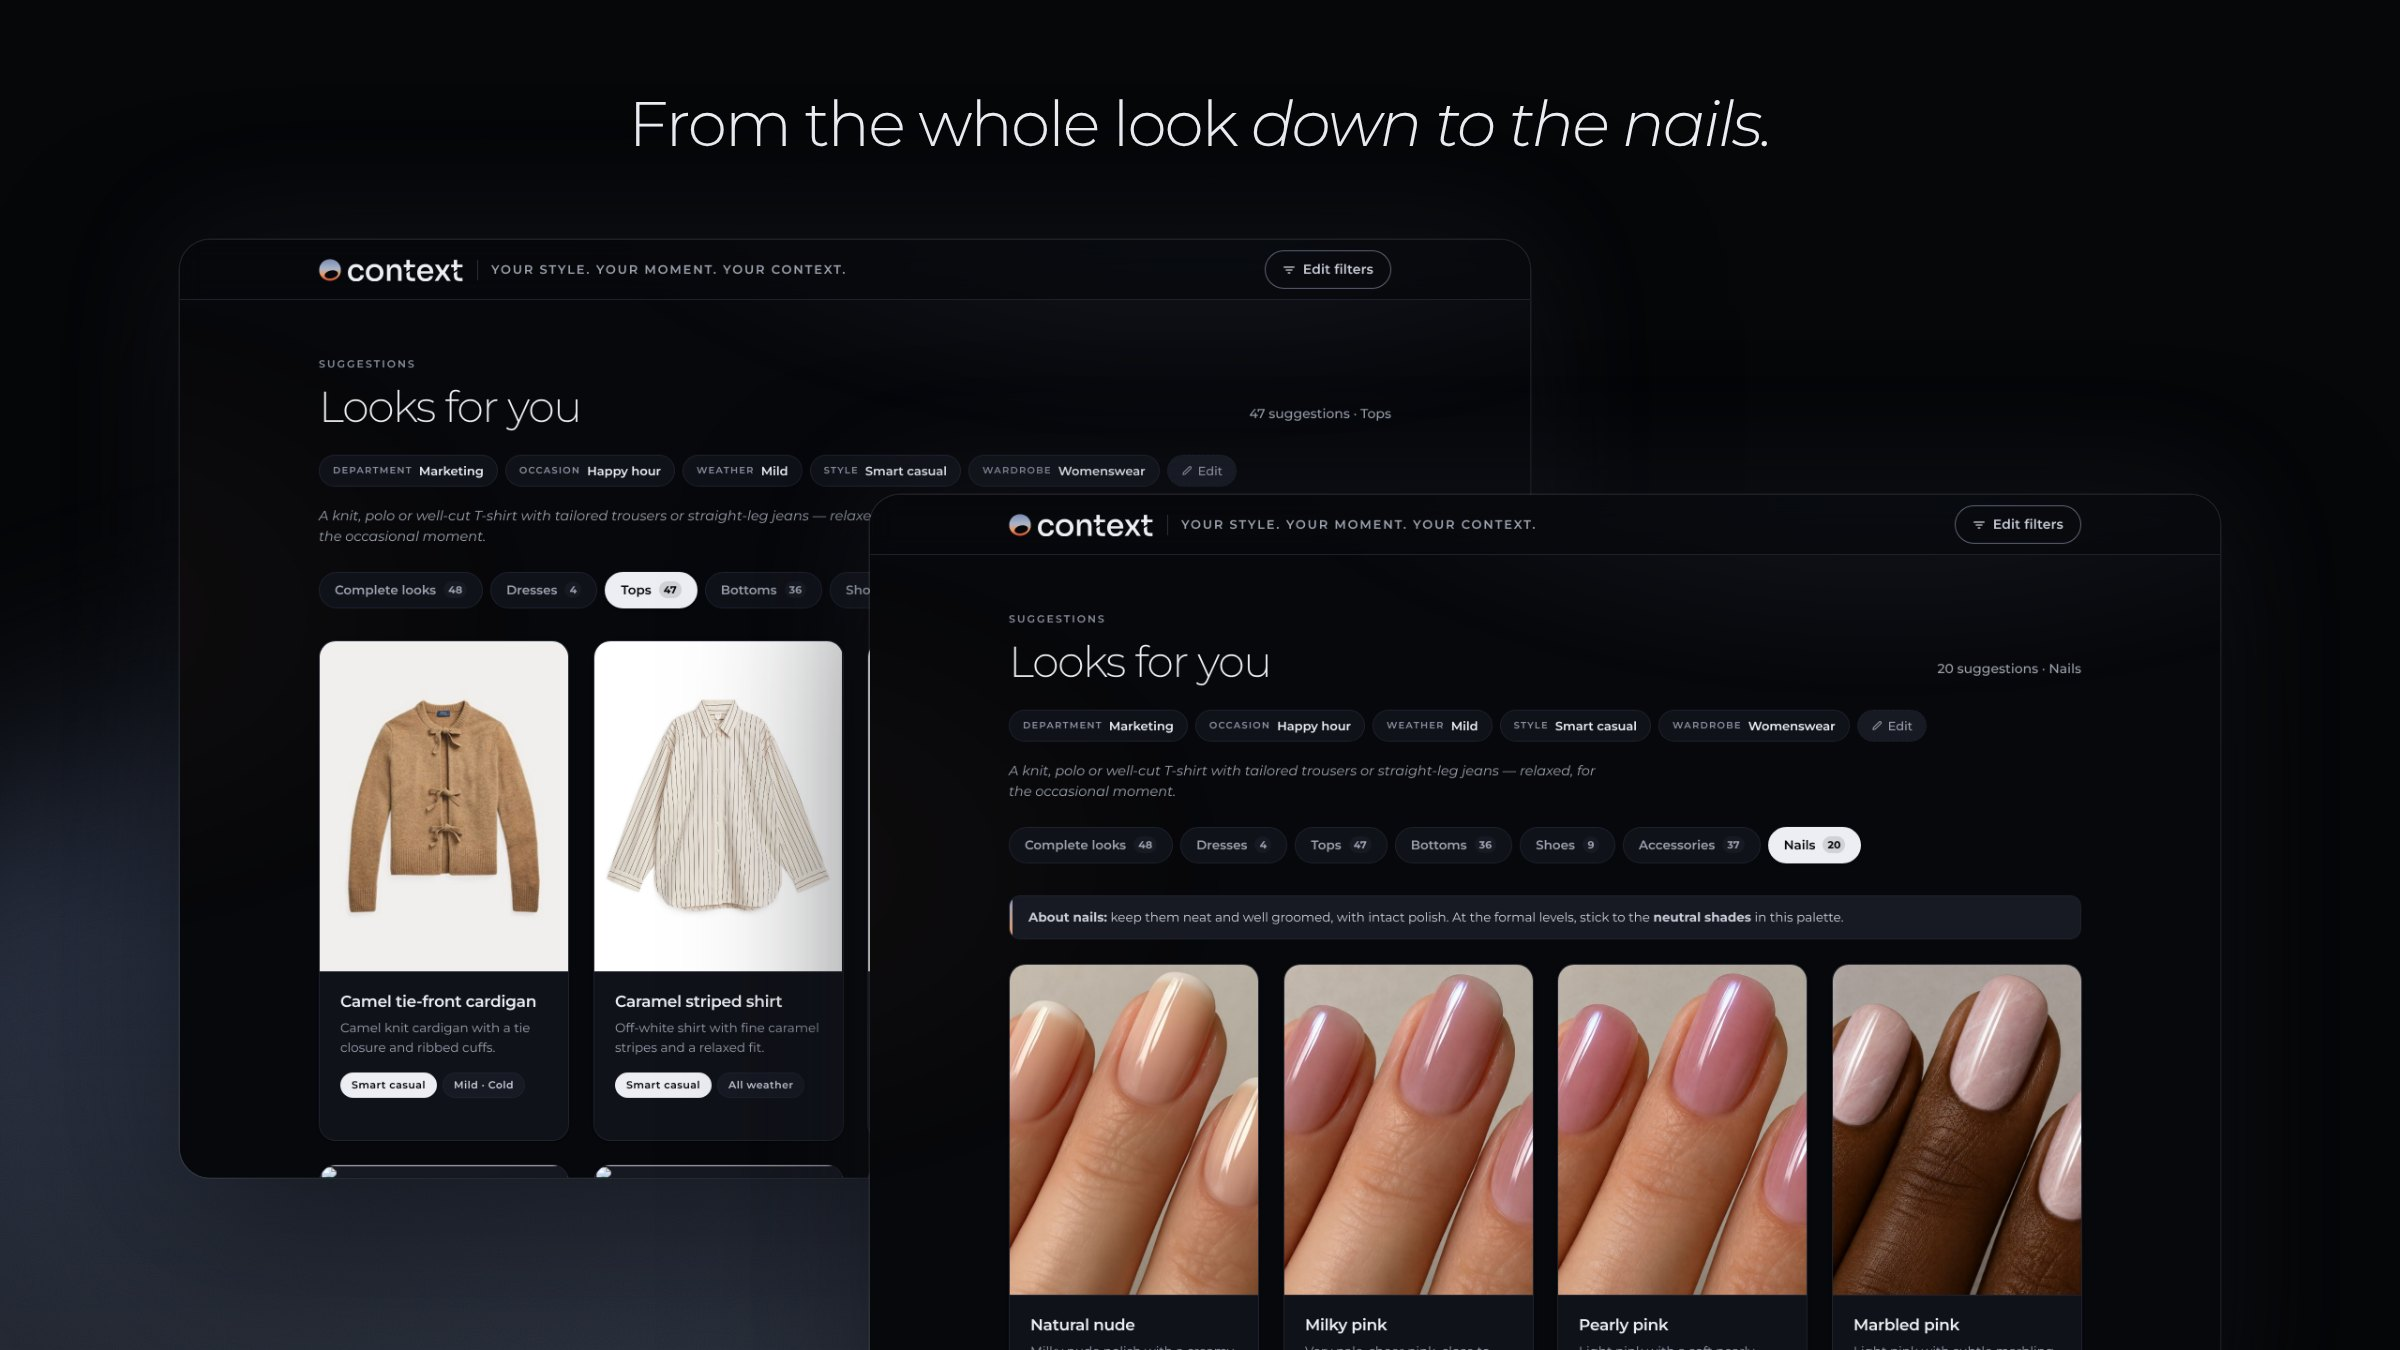
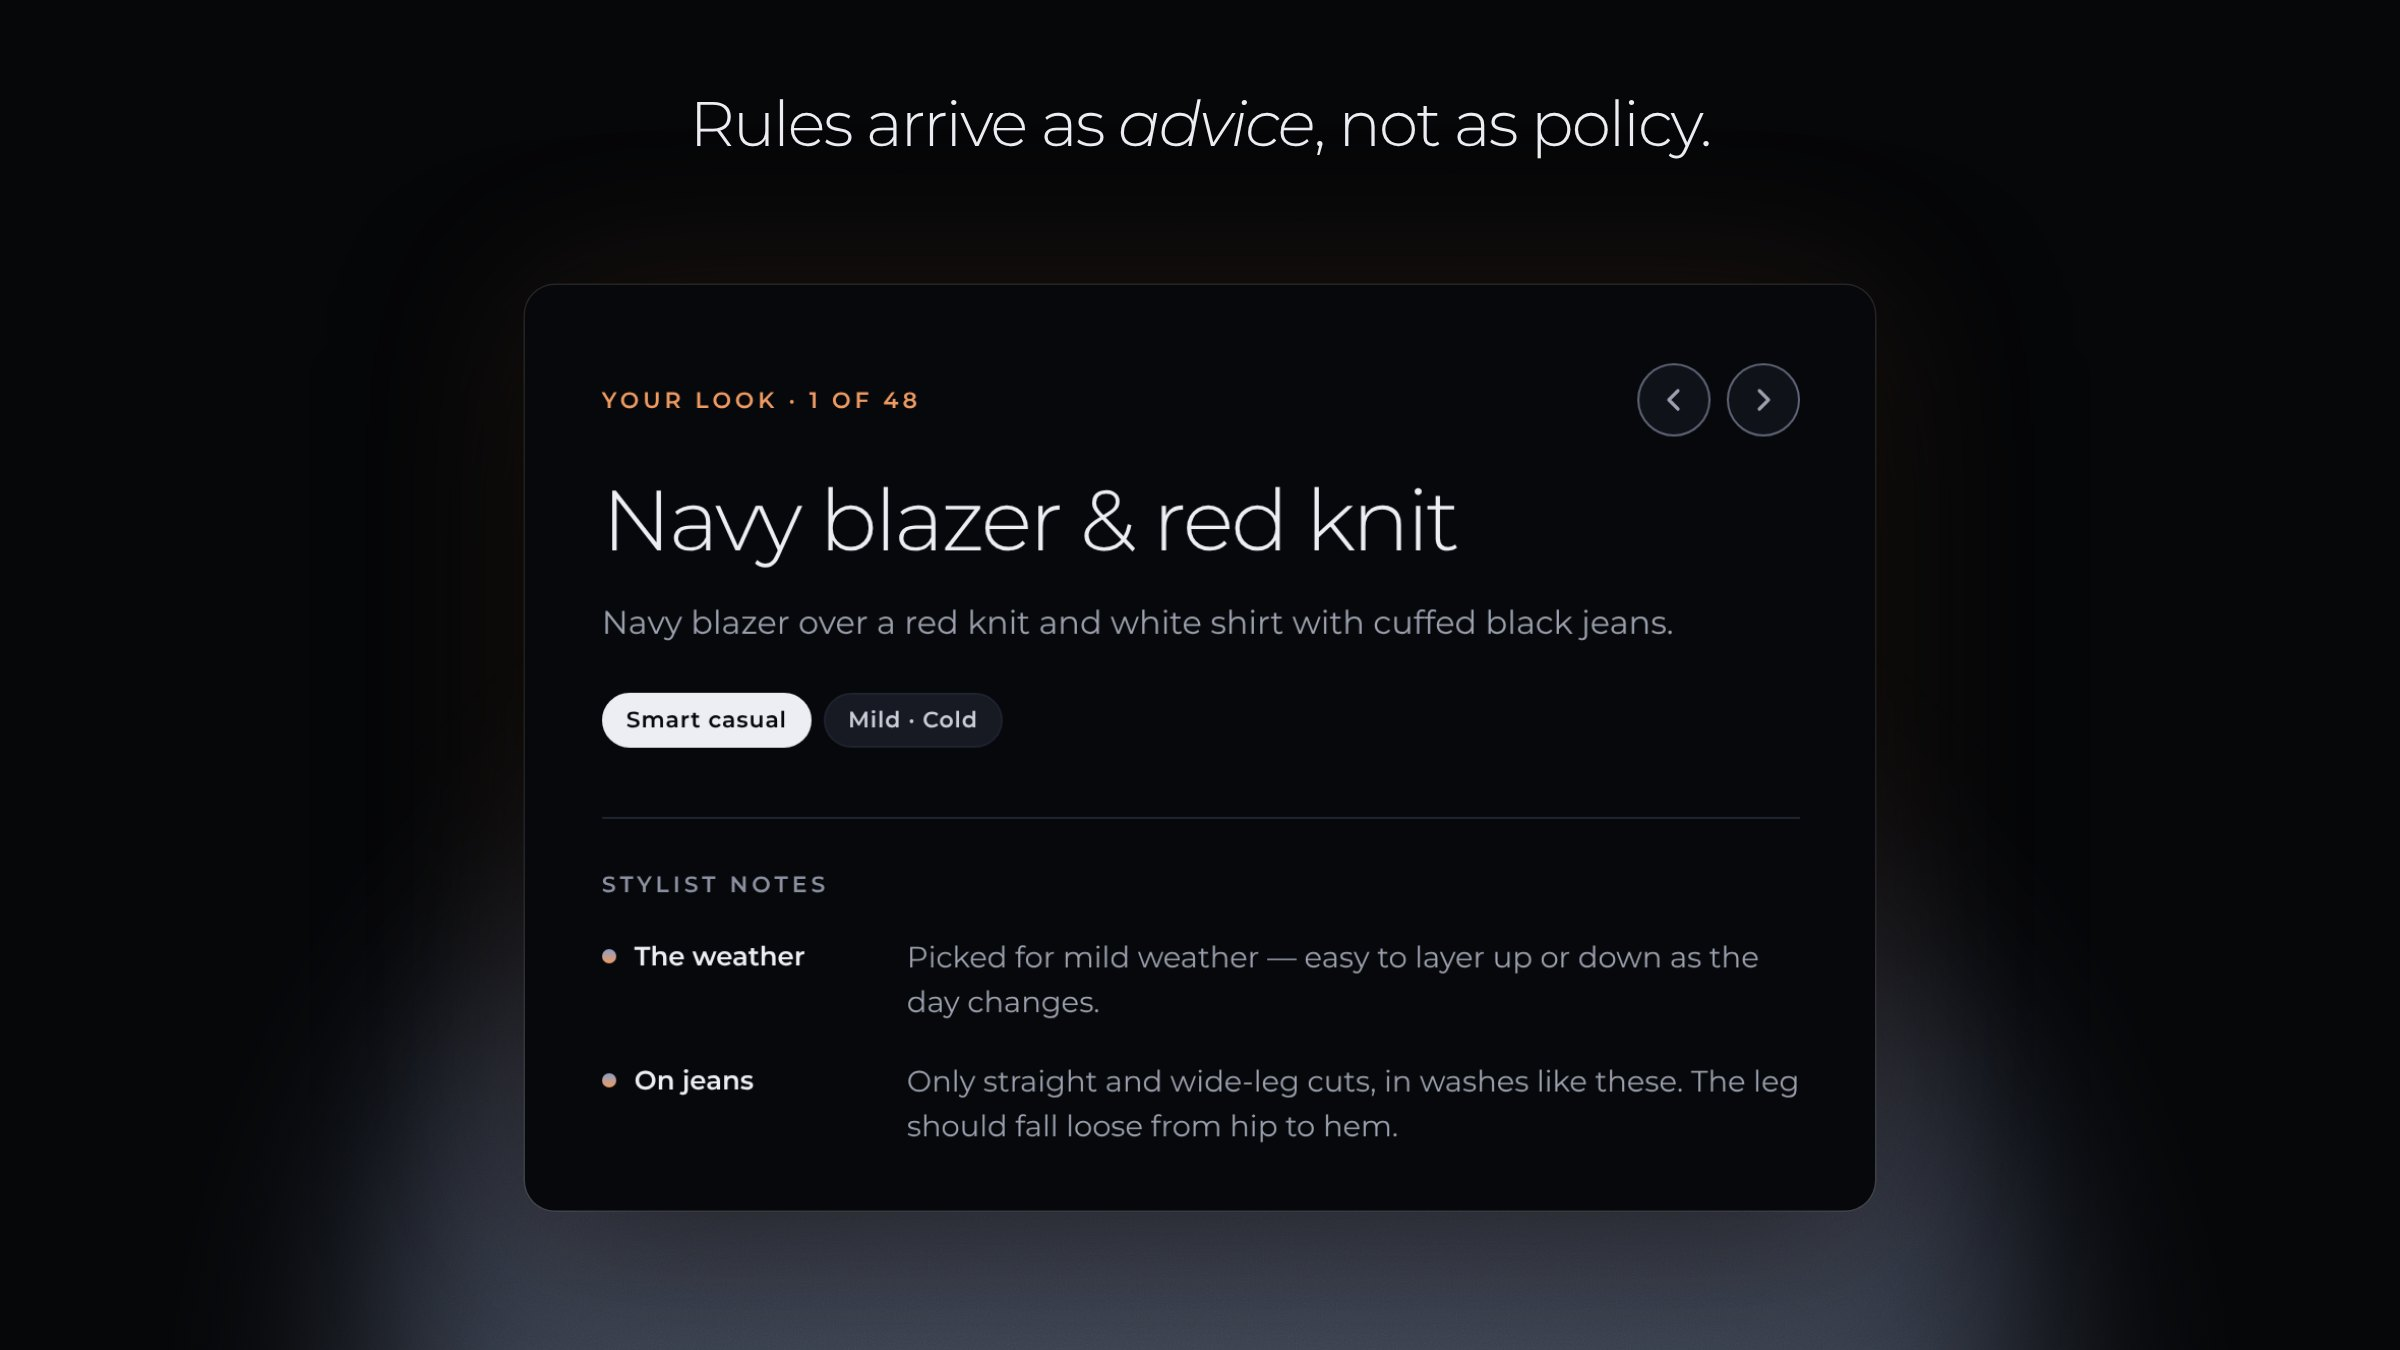
Refaz os slides do Context com o layout novo
Os slides 03 a 10 passam a mostrar a frase com lacunas, o dress code
como resposta, a escala de formalidade, o look principal com as notas
de estilista, o "Build it yourself", a frase editável nos resultados e
a versão de celular. Capa e lookbook (01 e 02) continuam.

O texto do projeto e a caixa "Experimente agora" deixam de falar em
filtros e descrevem o fluxo novo; os alt das imagens acompanham.

Claude-Session: https://claude.ai/code/session_01WbwawHgNyP5R64fneBLes7

diff --git a/index.html b/index.html
@@ -927,25 +927,25 @@ body.cursor-click #cursor-dot {
       <div class="proj-right-wrap">
         <div class="proj-header">
           <p class="proj-header-title" data-pt="Context — Dress the context | UI/UX Design" data-en="Context — Dress the context | UI/UX Design">Context — Dress the context | UI/UX Design</p>
-          <p class="proj-header-desc" data-pt="Proposta de plataforma para empresas apresentarem o seu dress code como um personal stylist, e não como uma lista de regras. A pessoa escolhe área, ocasião, clima, nível de formalidade e guarda-roupa, e recebe looks completos, peças, sapatos, acessórios e até tons de esmalte que combinam com o momento. As regras da empresa aparecem como conselho, bem no ponto em que fazem diferença." data-en="A platform proposal for companies to present their dress code the way a personal stylist would, not as a list of rules. People choose their department, occasion, weather, level of formality and wardrobe, and get complete looks, single pieces, shoes, accessories and even nail shades that fit the moment. Company rules show up as advice, right where they make a difference.">Proposta de plataforma para empresas apresentarem o seu dress code como um personal stylist, e não como uma lista de regras. A pessoa escolhe área, ocasião, clima, nível de formalidade e guarda-roupa, e recebe looks completos, peças, sapatos, acessórios e até tons de esmalte que combinam com o momento. As regras da empresa aparecem como conselho, bem no ponto em que fazem diferença.</p>
+          <p class="proj-header-desc" data-pt="Proposta de plataforma para empresas apresentarem o seu dress code como um personal stylist, e não como uma lista de regras. A pessoa descreve o dia numa frase (área, ocasião, clima e guarda-roupa) e recebe o dress code como resposta, um look principal com notas de estilista e as peças, sapatos, acessórios e até tons de esmalte para montar o próprio. As regras da empresa aparecem como conselho, bem no ponto em que fazem diferença." data-en="A platform proposal for companies to present their dress code the way a personal stylist would, not as a list of rules. People describe their day in one sentence (department, occasion, weather and wardrobe) and get the dress code as the answer, a featured look with stylist notes, and the pieces, shoes, accessories and even nail shades to build their own. Company rules show up as advice, right where they make a difference.">Proposta de plataforma para empresas apresentarem o seu dress code como um personal stylist, e não como uma lista de regras. A pessoa descreve o dia numa frase (área, ocasião, clima e guarda-roupa) e recebe o dress code como resposta, um look principal com notas de estilista e as peças, sapatos, acessórios e até tons de esmalte para montar o próprio. As regras da empresa aparecem como conselho, bem no ponto em que fazem diferença.</p>
           <a class="proj-cta" href="context/" target="_blank" rel="noopener"><span data-pt="Acessar a plataforma" data-en="Open the platform">Acessar a plataforma</span><span>↗</span></a>
         </div>
         <div class="proj-images">
           <div class="case-img"><img src="assets/images/context_01.jpg" loading="lazy" alt="Context — logo sobre a esfera da marca" style="width:100%;display:block;border-radius:12px;"/></div>
           <div class="case-img"><img src="assets/images/context_02.jpg" loading="lazy" alt="Context — looks femininos e masculinos" style="width:100%;display:block;border-radius:12px;"/></div>
-          <div class="case-img"><img src="assets/images/context_03.jpg" loading="lazy" alt="Context — cinco filtros: área, ocasião, clima, estilo e guarda-roupa" style="width:100%;display:block;border-radius:12px;"/></div>
-          <div class="case-img"><img src="assets/images/context_04.jpg" loading="lazy" alt="Context — os quatro níveis de vestimenta" style="width:100%;display:block;border-radius:12px;"/></div>
-          <div class="case-img"><img src="assets/images/context_05.jpg" loading="lazy" alt="Context — looks sugeridos para o contexto escolhido" style="width:100%;display:block;border-radius:12px;"/></div>
-          <div class="case-img"><img src="assets/images/context_06.jpg" loading="lazy" alt="Context — regra apresentada como conselho" style="width:100%;display:block;border-radius:12px;"/></div>
-          <div class="case-img"><img src="assets/images/context_07.jpg" loading="lazy" alt="Context — partes de cima e tons de esmalte" style="width:100%;display:block;border-radius:12px;"/></div>
-          <div class="case-img"><img src="assets/images/context_08.jpg" loading="lazy" alt="Context — looks masculinos smart casual" style="width:100%;display:block;border-radius:12px;"/></div>
-          <div class="case-img"><img src="assets/images/context_09.jpg" loading="lazy" alt="Context — painel para editar os filtros" style="width:100%;display:block;border-radius:12px;"/></div>
+          <div class="case-img"><img src="assets/images/context_03.jpg" loading="lazy" alt="Context — o dia descrito numa frase com lacunas" style="width:100%;display:block;border-radius:12px;"/></div>
+          <div class="case-img"><img src="assets/images/context_04.jpg" loading="lazy" alt="Context — o dress code aparece como resposta" style="width:100%;display:block;border-radius:12px;"/></div>
+          <div class="case-img"><img src="assets/images/context_05.jpg" loading="lazy" alt="Context — escala de formalidade do formal ao casual" style="width:100%;display:block;border-radius:12px;"/></div>
+          <div class="case-img"><img src="assets/images/context_06.jpg" loading="lazy" alt="Context — look principal escolhido para o dia" style="width:100%;display:block;border-radius:12px;"/></div>
+          <div class="case-img"><img src="assets/images/context_07.jpg" loading="lazy" alt="Context — notas de estilista com as regras como conselho" style="width:100%;display:block;border-radius:12px;"/></div>
+          <div class="case-img"><img src="assets/images/context_08.jpg" loading="lazy" alt="Context — peças avulsas e tons de esmalte para montar o look" style="width:100%;display:block;border-radius:12px;"/></div>
+          <div class="case-img"><img src="assets/images/context_09.jpg" loading="lazy" alt="Context — frase editável para trocar o contexto nos resultados" style="width:100%;display:block;border-radius:12px;"/></div>
           <div class="case-img"><img src="assets/images/context_10.jpg" loading="lazy" alt="Context — versão para celular" style="width:100%;display:block;border-radius:12px;"/></div>
         </div>
         <div class="try-box try-box--context">
           <div>
             <p class="try-title" data-pt="Experimente agora" data-en="Try it now">Experimente agora</p>
-            <p class="try-desc" data-pt="O Context está no ar com o catálogo completo: escolha os filtros e veja os looks." data-en="Context is live with the full catalog: pick the filters and see the looks.">O Context está no ar com o catálogo completo: escolha os filtros e veja os looks.</p>
+            <p class="try-desc" data-pt="O Context está no ar com o catálogo completo: conte como é o seu dia e veja os looks." data-en="Context is live with the full catalog: tell it about your day and see the looks.">O Context está no ar com o catálogo completo: conte como é o seu dia e veja os looks.</p>
           </div>
           <a class="proj-cta" href="context/" target="_blank" rel="noopener"><span data-pt="Acessar a plataforma" data-en="Open the platform">Acessar a plataforma</span><span>↗</span></a>
         </div>
